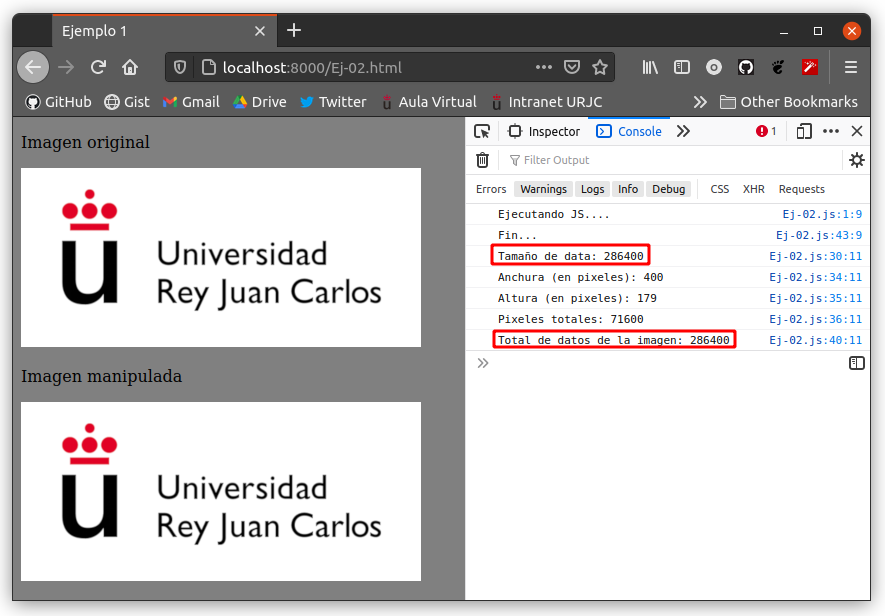
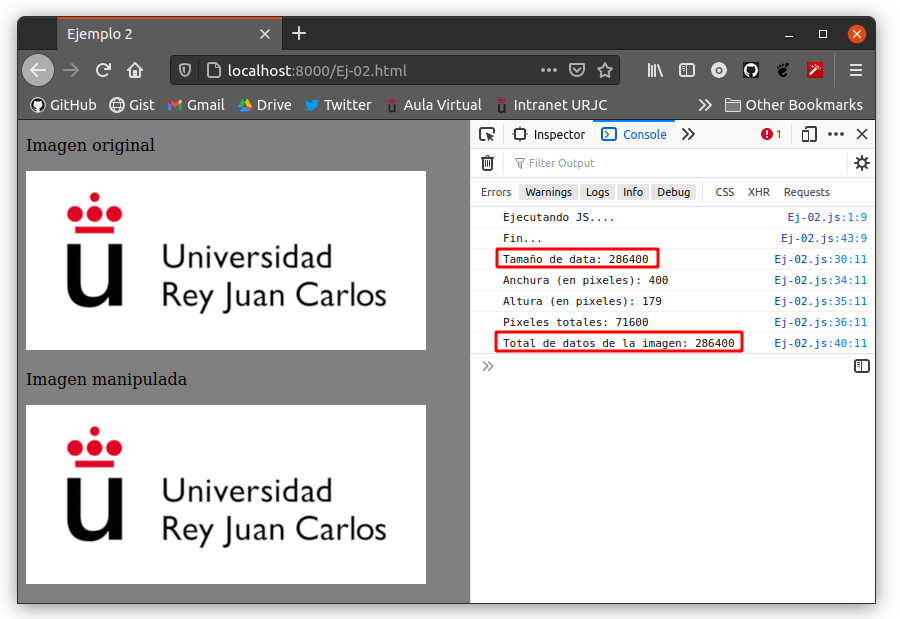
L11: Image updated

Changed region(s): [[0.0, 0.0, 1.0, 0.987], [0.061, 0.6786, 0.4271, 0.8945], [0.061, 0.3084, 0.4271, 0.5244]]

diff --git a/L11/Ejemplos/Ej-02.html b/L11/Ejemplos/Ej-02.html
@@ -6,7 +6,7 @@
     <meta name="viewport" content="width=device-width, initial-scale=1.0">
     <link rel="stylesheet" href="style.css">
     <script src="Ej-02.js" defer></script>
-    <title>Ejemplo 1</title>
+    <title>Ejemplo 2</title>
 </head>
 <body>
     <p>Imagen original</p>

diff --git a/L11/Ejemplos/Ej-03.html b/L11/Ejemplos/Ej-03.html
@@ -6,7 +6,7 @@
     <meta name="viewport" content="width=device-width, initial-scale=1.0">
     <link rel="stylesheet" href="style.css">
     <script src="Ej-03.js" defer></script>
-    <title>Ejemplo 1</title>
+    <title>Ejemplo 3</title>
 </head>
 <body>
     <p>Imagen original</p>

diff --git a/L11/Ejemplos/Ej-04.html b/L11/Ejemplos/Ej-04.html
@@ -6,7 +6,7 @@
     <meta name="viewport" content="width=device-width, initial-scale=1.0">
     <link rel="stylesheet" href="style.css">
     <script src="Ej-04.js" defer></script>
-    <title>Ejemplo 1</title>
+    <title>Ejemplo 4</title>
 </head>
 <body>
     <p>Imagen original</p>
